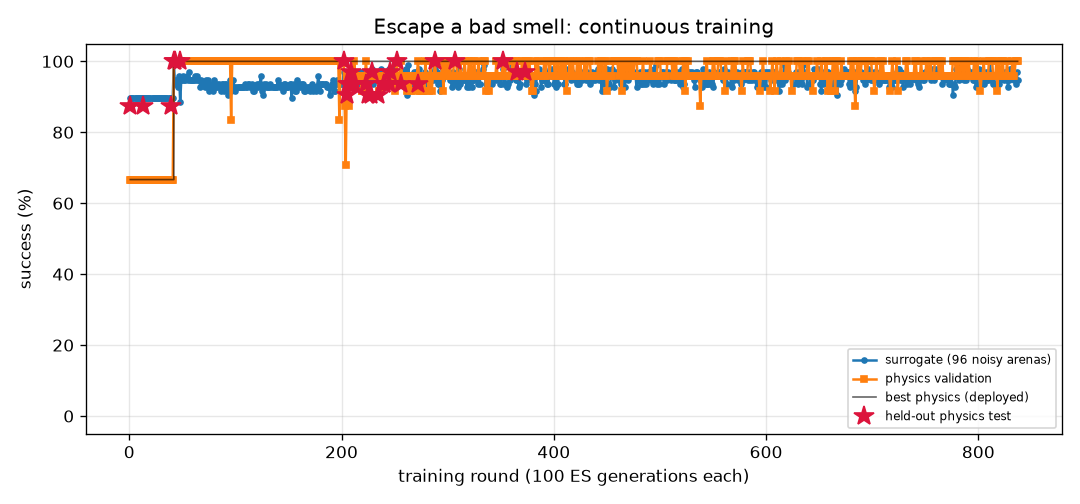
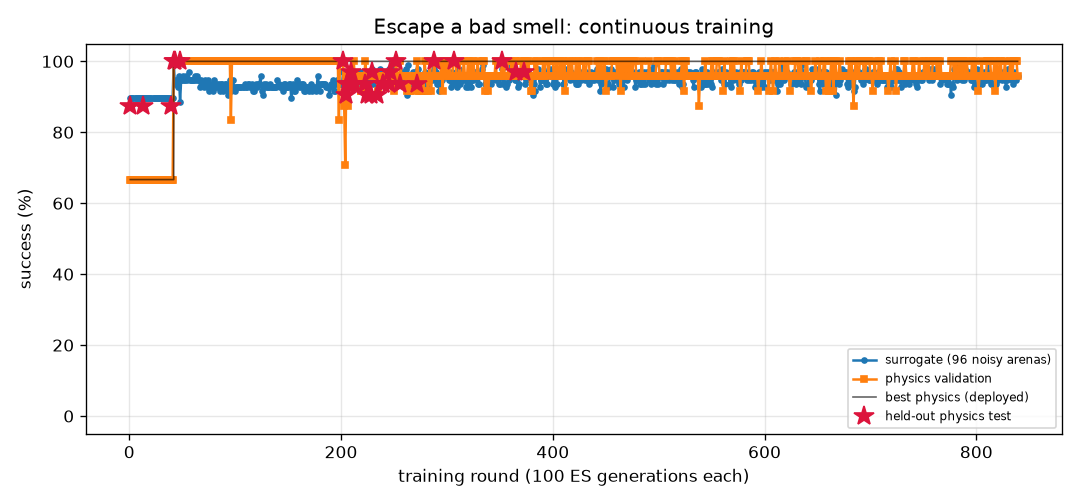
FlyLab: continuous training progress
- walk_forward: optimal, physics val 100% of 24, round 329
- turn: optimal, physics val 100% of 24, round 933
- goto: optimal, physics val 100% of 24, round 263
- odor_seek: optimal, physics val 100% of 24, round 216
- odor_avoid: optimal, physics val 100% of 24, round 839
- light_seek: optimal, physics val 100% of 24, round 458
- light_avoid: optimal, physics val 100% of 24, round 570

diff --git a/projects/09_flylab/training/odor_avoid/REPORT.md b/projects/09_flylab/training/odor_avoid/REPORT.md
@@ -1,14 +1,14 @@
 # Escape a bad smell (`odor_avoid`) — training report
 
-*Auto-generated by `train_brains.py`, last updated 2026-11-08T11:11:54.*
+*Auto-generated by `train_brains.py`, last updated 2026-11-08T14:47:44.*
 
 ![curve](curve.png)
 
 | | |
 |---|---|
-| rounds | 837 |
-| ES generations | 83700 |
-| physics runs | 17394 |
+| rounds | 839 |
+| ES generations | 83900 |
+| physics runs | 17442 |
 | status | **optimal** |
 | best brain | round 373: physics validation **100%** on 24 arenas, surrogate 97% |
 | held-out physics test | **97%** on 32 unseen arenas (95% CI 84%-99%) (errors: [62.0, 57.4, 62.6, 61.9, 59.0, 61.6, 56.5, 60.7, 31.7, 60.9, 63.1, 57.1, 61.1, 62.1, 61.5, 60.2, 62.2, 55.2, 62.1, 54.2, 61.3, 62.0, 58.0, 61.9, 59.8, 56.5, 56.3, 56.4, 56.3, 57.7, 61.9, 32.4]) |
@@ -17,8 +17,6 @@ Physics error per arena: mm gained away from source (> 6 without first approachi
 
 | round | level | gens | sigma | surrogate | physics val | val errors | test | note |
 |---:|---:|---:|---:|---:|---:|---|---:|---|
-| 798 | 3 | 79800 | 0.026 | 93% | 96% | [59.9, 56.1, 55.6, 59.1, 58.0, 38.2, 60.6, 55.9, 60.7, 28.1, 2.4, 60.5, 39.8, 53.3, 14.5, 41.2, 60.5, 35.2, 48.9, 58.4, 60.6, 24.3, 59.3, 27.5] |  |  |
-| 799 | 3 | 79900 | 0.028 | 94% | 100% | [62.2, 57.1, 56.4, 60.7, 62.3, 62.1, 60.8, 60.2, 62.2, 62.3, 62.2, 61.8, 54.8, 53.6, 50.6, 62.5, 62.2, 62.1, 55.0, 57.1, 61.9, 61.9, 60.7, 60.1] |  |  |
 | 800 | 3 | 80000 | 0.028 | 97% | 96% | [57.9, 55.3, 53.6, 51.8, 59.3, 57.1, 57.9, 47.9, 57.7, 47.9, 28.9, 58.6, 46.6, 53.0, 0.0, 56.3, 59.3, 54.5, 47.7, 55.1, 58.7, 56.2, 55.3, 56.6] |  |  |
 | 801 | 3 | 80100 | 0.026 | 98% | 96% | [60.0, 59.7, 55.9, 56.3, 61.2, 61.1, 60.6, 40.3, 60.7, 60.1, 39.4, 60.9, 48.4, 55.7, 36.2, 59.7, 60.7, 60.0, 51.2, 57.9, 60.7, 60.7, 58.9, 60.0] |  | restart from best |
 | 802 | 3 | 80200 | 0.026 | 96% | 92% | [62.8, 61.2, 56.4, 61.6, 60.5, 43.3, 61.7, 2.9, 61.0, 35.4, 3.0, 62.0, 52.3, 56.7, 24.3, 60.1, 62.1, 43.9, 52.1, 61.3, 62.1, 29.7, 61.6, 62.0] |  |  |
@@ -57,3 +55,5 @@ Physics error per arena: mm gained away from source (> 6 without first approachi
 | 835 | 3 | 83500 | 0.027 | 94% | 100% | [62.1, 59.7, 56.5, 59.9, 62.6, 62.8, 61.9, 60.9, 62.0, 62.6, 62.6, 62.0, 55.3, 56.7, 51.4, 62.5, 62.2, 62.9, 54.3, 56.9, 62.1, 61.8, 58.4, 61.4] |  |  |
 | 836 | 3 | 83600 | 0.028 | 97% | 100% | [58.9, 51.0, 54.5, 51.5, 59.9, 55.1, 54.3, 48.5, 54.8, 53.1, 51.2, 59.6, 49.2, 54.6, 45.2, 59.1, 59.8, 56.8, 51.5, 51.1, 59.2, 55.5, 51.5, 56.1] |  |  |
 | 837 | 3 | 83700 | 0.026 | 95% | 100% | [62.9, 56.6, 56.8, 55.5, 62.9, 61.8, 61.1, 28.9, 61.2, 58.3, 62.4, 62.6, 55.0, 56.9, 50.9, 61.5, 62.3, 60.6, 54.9, 57.1, 62.6, 60.7, 55.6, 57.5] |  | restart from best |
+| 838 | 3 | 83800 | 0.026 | 96% | 100% | [62.7, 60.8, 56.4, 59.3, 62.2, 62.6, 61.1, 55.3, 60.8, 35.6, 61.3, 62.2, 54.7, 56.3, 49.6, 62.1, 62.4, 61.5, 55.4, 57.6, 62.2, 62.4, 59.3, 41.9] |  |  |
+| 839 | 3 | 83900 | 0.026 | 96% | 96% | [63.4, 60.0, 57.1, 61.0, 61.9, 61.4, 62.1, 36.6, 60.0, 58.0, 61.8, 61.6, 54.7, 58.4, 36.9, 62.4, 62.3, 60.5, 55.4, 56.5, 62.2, 43.7, 57.9, 52.6] |  |  |

diff --git a/projects/09_flylab/training/turn/REPORT.md b/projects/09_flylab/training/turn/REPORT.md
@@ -1,14 +1,14 @@
 # Turn in place (`turn`) — training report
 
-*Auto-generated by `train_brains.py`, last updated 2026-11-08T13:58:08.*
+*Auto-generated by `train_brains.py`, last updated 2026-11-08T14:32:15.*
 
 ![curve](curve.png)
 
 | | |
 |---|---|
-| rounds | 931 |
-| ES generations | 93100 |
-| physics runs | 22590 |
+| rounds | 933 |
+| ES generations | 93300 |
+| physics runs | 22638 |
 | status | **optimal** |
 | best brain | round 80: physics validation **100%** on 24 arenas, surrogate 100% |
 | held-out physics test | **97%** on 32 unseen arenas (95% CI 84%-99%) (errors: [1.6, 3.3, 6.3, 3.7, 1.1, 0.4, 2.4, 2.9, 0.1, 2.6, 0.5, 2.7, 1.5, 3.1, 4.5, 0.2, 0.5, 1.1, 2.0, 4.4, 2.8, 3.2, 0.3, 2.2, 0.5, 3.0, 0.3, 5.4, 0.4, 1.0, 4.7, 10.7]) |
@@ -17,8 +17,6 @@ Physics error per arena: deg from target heading (< 20 = success).
 
 | round | level | gens | sigma | surrogate | physics val | val errors | test | note |
 |---:|---:|---:|---:|---:|---:|---|---:|---|
-| 892 | 3 | 89200 | 0.025 | 99% | 83% | [7.9, 8.2, 4.1, 0.1, 2.8, 1.9, 5.8, 3.8, 4.3, 0.8, 3.5, 1.5, 0.5, 1.8, 3.6, 1.5, 1.5, 1.0, 0.0, 1.4, 6.3, 4.0, 4.0, 3.3] |  | restart from best |
-| 893 | 3 | 89300 | 0.024 | 99% | 79% | [7.8, 9.4, 3.5, 4.6, 4.4, 1.6, 4.2, 0.5, 3.6, 1.4, 4.2, 1.7, 0.8, 3.0, 3.3, 0.7, 1.2, 0.7, 0.7, 1.0, 8.4, 0.3, 3.0, 2.3] |  |  |
 | 894 | 3 | 89400 | 0.025 | 99% | 88% | [1.3, 7.8, 0.2, 2.0, 1.0, 0.5, 4.2, 4.5, 3.8, 1.2, 2.6, 2.9, 2.3, 4.3, 3.5, 1.0, 1.5, 0.7, 1.0, 0.4, 4.6, 2.4, 2.9, 2.3] |  |  |
 | 895 | 3 | 89500 | 0.025 | 98% | 92% | [1.1, 5.6, 0.9, 2.3, 2.5, 1.9, 3.6, 6.6, 3.4, 0.8, 2.5, 2.4, 0.8, 2.2, 3.2, 9.2, 1.2, 0.5, 0.5, 0.8, 12.9, 1.6, 3.4, 1.1] |  |  |
 | 896 | 3 | 89600 | 0.025 | 99% | 83% | [4.8, 7.0, 0.9, 0.4, 3.5, 1.6, 3.8, 0.4, 3.6, 12.1, 4.4, 1.0, 0.9, 2.9, 3.1, 0.7, 1.1, 1.0, 0.5, 0.2, 3.8, 0.7, 5.3, 1.3] |  | restart from best |
@@ -57,3 +55,5 @@ Physics error per arena: deg from target heading (< 20 = success).
 | 929 | 3 | 92900 | 0.024 | 100% | 83% | [7.8, 8.1, 5.2, 1.6, 12.0, 1.3, 4.8, 1.3, 3.9, 0.9, 3.1, 2.5, 1.1, 4.5, 4.3, 1.0, 2.4, 0.1, 1.2, 0.7, 7.1, 0.5, 4.2, 3.5] |  |  |
 | 930 | 3 | 93000 | 0.024 | 99% | 79% | [2.9, 7.4, 2.8, 0.4, 1.8, 1.6, 3.4, 2.4, 5.5, 0.2, 4.0, 0.5, 1.5, 0.9, 3.8, 1.0, 0.6, 0.6, 1.2, 1.6, 3.9, 2.9, 4.2, 5.3] |  |  |
 | 931 | 3 | 93100 | 0.025 | 100% | 88% | [7.1, 10.7, 0.9, 1.1, 3.8, 1.5, 3.3, 5.1, 2.4, 3.0, 3.0, 3.0, 0.5, 5.4, 2.8, 2.6, 2.6, 1.2, 3.8, 1.8, 4.9, 3.6, 2.5, 6.2] |  |  |
+| 932 | 3 | 93200 | 0.024 | 100% | 75% | [5.5, 7.9, 6.3, 0.3, 2.2, 1.1, 5.3, 5.4, 3.3, 0.6, 3.7, 1.0, 0.7, 2.5, 4.0, 1.2, 0.9, 0.7, 0.5, 0.3, 3.4, 1.2, 5.4, 2.7] |  | restart from best |
+| 933 | 3 | 93300 | 0.024 | 99% | 71% | [6.7, 9.2, 7.6, 2.7, 6.2, 0.8, 3.0, 5.7, 1.8, 0.3, 2.8, 3.2, 3.2, 5.8, 2.7, 0.2, 3.7, 0.6, 0.8, 0.4, 6.8, 3.7, 4.2, 1.4] |  |  |

diff --git a/projects/09_flylab/training/light_avoid/REPORT.md b/projects/09_flylab/training/light_avoid/REPORT.md
@@ -1,14 +1,14 @@
 # Hide from light (`light_avoid`) — training report
 
-*Auto-generated by `train_brains.py`, last updated 2026-11-08T11:41:45.*
+*Auto-generated by `train_brains.py`, last updated 2026-11-08T14:57:48.*
 
 ![curve](curve.png)
 
 | | |
 |---|---|
-| rounds | 569 |
-| ES generations | 56900 |
-| physics runs | 13928 |
+| rounds | 570 |
+| ES generations | 57000 |
+| physics runs | 13952 |
 | status | **optimal** |
 | best brain | round 159: physics validation **100%** on 24 arenas, surrogate 100% |
 | held-out physics test | **100%** on 32 unseen arenas (95% CI 89%-100%) (errors: [14.4, 56.1, 58.0, 57.9, 57.5, 14.0, 14.4, 56.6, 56.8, 13.3, 14.1, 56.6, 57.6, 13.1, 57.3, 55.9, 57.2, 55.0, 55.2, 53.9, 55.2, 12.4, 53.8, 53.7, 14.1, 13.7, 55.0, 57.8, 56.2, 13.1, 52.8, 56.5]) |
@@ -17,7 +17,6 @@ Physics error per arena: mm gained away from source (> 6 without first approachi
 
 | round | level | gens | sigma | surrogate | physics val | val errors | test | note |
 |---:|---:|---:|---:|---:|---:|---|---:|---|
-| 530 | 3 | 53000 | 0.024 | 97% | 100% | [39.7, 40.8, 41.0, 39.2, 36.6, 39.3, 40.9, 14.5, 13.0, 13.4, 10.1, 36.1, 14.4, 28.3, 41.1, 40.1, 14.2, 37.4, 41.0, 14.4, 40.2, 11.2, 40.3, 35.3] |  |  |
 | 531 | 3 | 53100 | 0.026 | 98% | 96% | [46.6, 47.2, 47.4, 47.0, 43.6, 46.7, 47.2, 14.5, 13.0, 13.4, 10.2, 43.2, 14.4, 8.0, 47.4, 45.2, 14.2, 44.6, 47.4, 14.4, 44.4, 11.3, 46.8, 42.2] |  | restart from best |
 | 532 | 3 | 53200 | 0.024 | 100% | 100% | [38.4, 40.7, 37.3, 40.4, 43.3, 40.1, 34.7, 14.5, 39.4, 13.3, 42.5, 41.5, 14.4, 40.6, 38.1, 41.5, 14.2, 42.5, 39.9, 14.4, 38.9, 41.8, 38.0, 41.2] |  |  |
 | 533 | 3 | 53300 | 0.024 | 100% | 100% | [42.8, 42.4, 42.1, 43.6, 46.9, 45.2, 41.6, 14.5, 43.8, 13.1, 45.8, 45.5, 14.4, 45.8, 42.5, 42.9, 14.2, 45.1, 44.8, 14.4, 42.3, 44.5, 40.3, 46.8] |  |  |
@@ -57,3 +56,4 @@ Physics error per arena: mm gained away from source (> 6 without first approachi
 | 567 | 3 | 56700 | 0.026 | 93% | 96% | [6.2, 49.4, 49.0, 7.3, 48.6, 4.5, 47.9, 14.5, 46.3, 13.2, 47.1, 48.3, 14.4, 47.8, 49.4, 9.0, 14.2, 49.0, 49.8, 14.4, 8.7, 47.5, 47.5, 47.7] |  | restart from best |
 | 568 | 3 | 56800 | 0.024 | 100% | 100% | [47.0, 47.2, 46.9, 47.1, 50.3, 47.7, 44.9, 14.5, 39.5, 13.4, 49.0, 50.1, 14.4, 48.5, 47.2, 49.0, 14.2, 50.1, 47.6, 14.4, 48.4, 48.9, 45.8, 50.0] |  |  |
 | 569 | 3 | 56900 | 0.024 | 100% | 100% | [51.3, 56.0, 55.5, 52.2, 56.7, 52.4, 53.8, 14.5, 49.1, 13.4, 54.4, 56.5, 14.3, 55.2, 55.7, 51.7, 14.2, 57.0, 56.2, 14.4, 53.6, 54.2, 53.9, 56.2] |  |  |
+| 570 | 3 | 57000 | 0.024 | 100% | 100% | [52.0, 55.9, 55.7, 53.0, 55.5, 53.1, 54.5, 14.5, 51.6, 13.1, 55.6, 55.3, 14.4, 53.9, 55.8, 54.1, 14.2, 56.0, 56.2, 14.4, 54.3, 55.6, 54.5, 54.8] |  |  |

diff --git a/projects/09_flylab/training/TRAINING.md b/projects/09_flylab/training/TRAINING.md
@@ -1,15 +1,15 @@
 # FlyLab brains — continuous training log
 
-*Auto-generated by `train_brains.py`, last updated 2026-11-08T14:01:02.*
+*Auto-generated by `train_brains.py`, last updated 2026-11-08T14:57:48.*
 
 Every skill has its own brain and its own training process: surrogate ES rounds, physics validation in MuJoCo, keep-the-best selection, and a held-out physics test that is never used for selection. See each skill's report for its full round-by-round history. Mastery is progressive: passing a level (100% physics validation, >=95% surrogate) doubles the validation and test arena sets; a brain is **optimal** once it holds up at level 3 (>=95% of 24 validation arenas) AND scores >=90% on the 32 held-out test arenas. Test columns show 95% Wilson confidence intervals.
 
 | skill | rounds | ES generations | physics runs | surrogate | physics val | **physics test** | status |
 |---|---:|---:|---:|---:|---:|---:|---|
 | [Walk forward](walk_forward/REPORT.md) | 329 | 32900 | 7910 | 100% | 100% of 24 | 100% of 32 (CI 89-100%) | **optimal** |
-| [Turn in place](turn/REPORT.md) | 931 | 93100 | 22590 | 100% | 100% of 24 | 97% of 32 (CI 84-99%) | **optimal** |
+| [Turn in place](turn/REPORT.md) | 933 | 93300 | 22638 | 100% | 100% of 24 | 97% of 32 (CI 84-99%) | **optimal** |
 | [Go to a location](goto/REPORT.md) | 263 | 26300 | 6262 | 100% | 100% of 24 | 100% of 32 (CI 89-100%) | **optimal** |
 | [Find food by smell](odor_seek/REPORT.md) | 216 | 21600 | 4614 | 100% | 100% of 24 | 100% of 32 (CI 89-100%) | **optimal** |
-| [Escape a bad smell](odor_avoid/REPORT.md) | 837 | 83700 | 17394 | 97% | 100% of 24 | 97% of 32 (CI 84-99%) | **optimal** |
+| [Escape a bad smell](odor_avoid/REPORT.md) | 839 | 83900 | 17442 | 97% | 100% of 24 | 97% of 32 (CI 84-99%) | **optimal** |
 | [Walk toward light](light_seek/REPORT.md) | 458 | 45800 | 7872 | 100% | 100% of 24 | 100% of 32 (CI 89-100%) | **optimal** |
-| [Hide from light](light_avoid/REPORT.md) | 569 | 56900 | 13928 | 100% | 100% of 24 | 100% of 32 (CI 89-100%) | **optimal** |
+| [Hide from light](light_avoid/REPORT.md) | 570 | 57000 | 13952 | 100% | 100% of 24 | 100% of 32 (CI 89-100%) | **optimal** |
